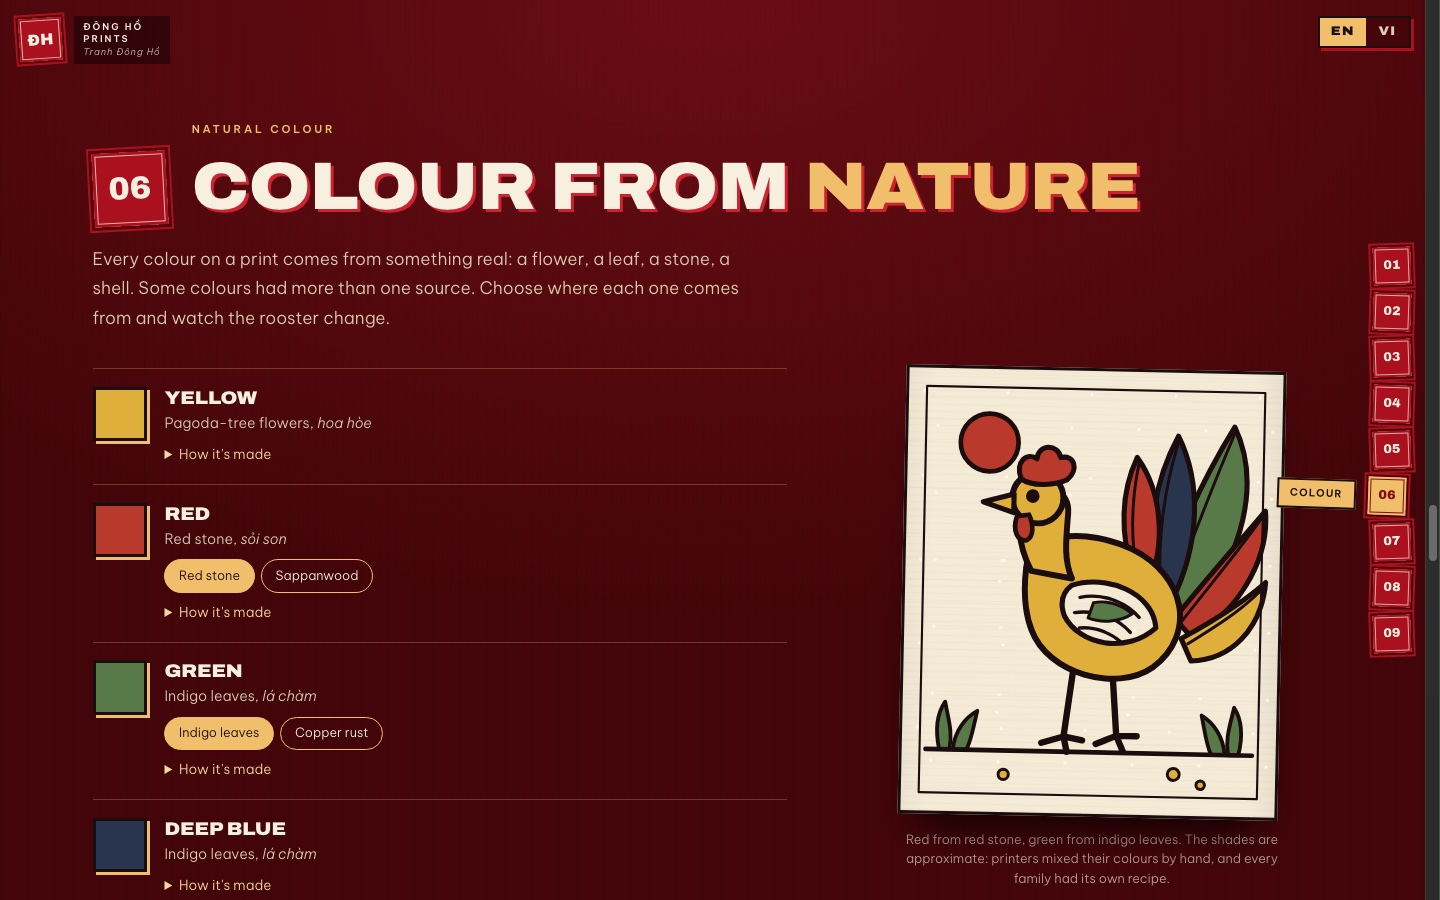
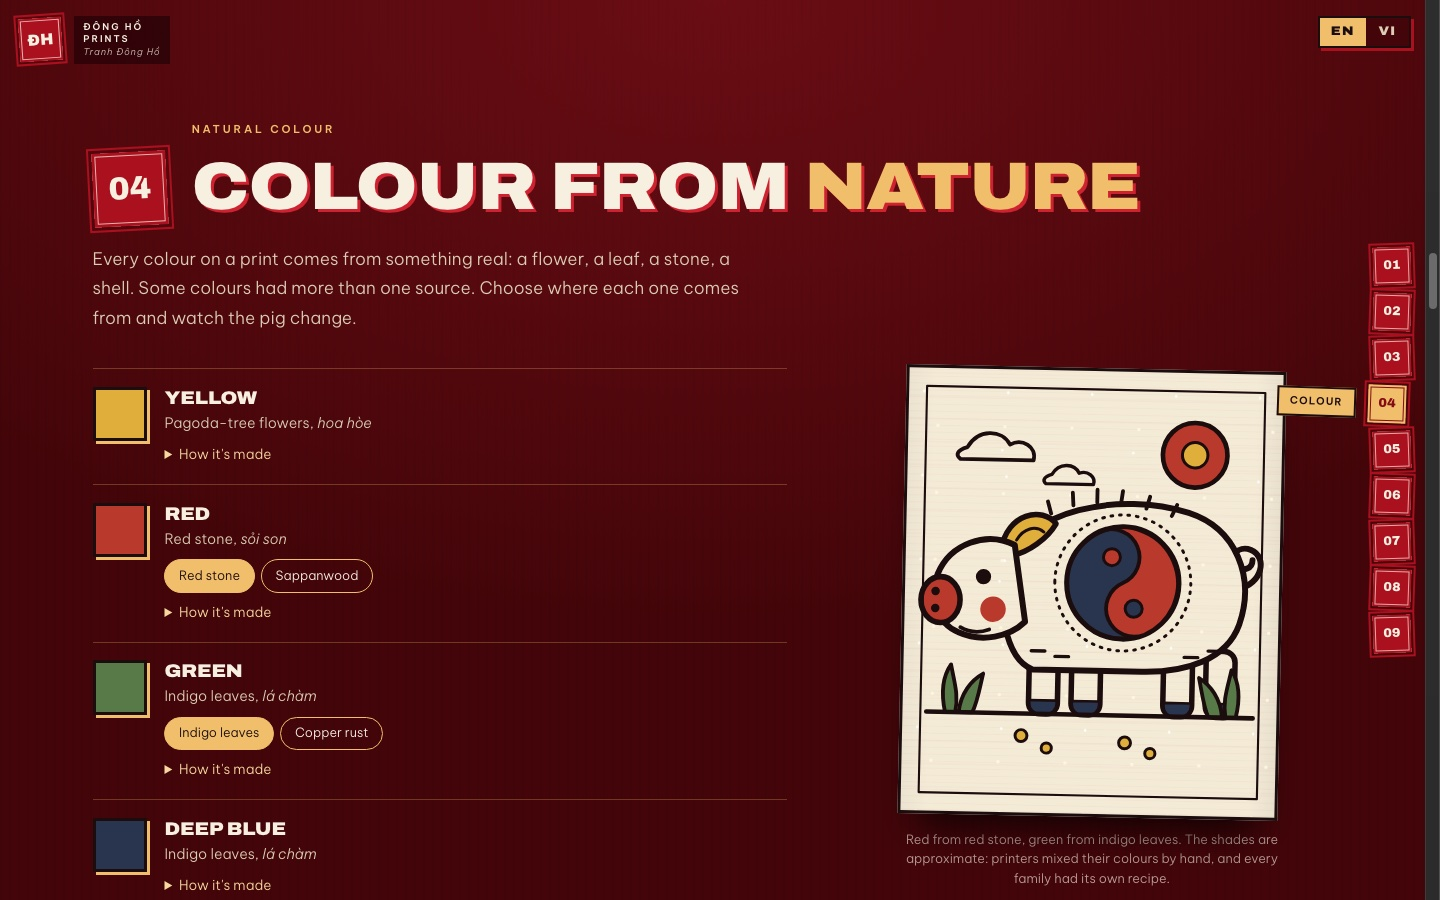
feat: change content section

diff --git a/components/press/pigScene.ts b/components/press/pigScene.ts
@@ -1,0 +1,83 @@
+// The yin-yang pig (Lợn âm dương) taken apart into blocks the same way as roosterScene.ts, so the colour
+// mixer can show it with any pigments. Drawn after the animated PigPrint in components/art, with two changes
+// that keep it to the four colour blocks: the snout is red (not pink), and the yin half of the swirl and the
+// hooves are indigo.
+
+import type { Ink, Line, Scene, Shape } from "./roosterScene";
+
+const shapes: Shape[] = [];
+const lines: Line[] = [];
+
+/** Adds a shape (back to front) and returns its index, for the lines that sit on top of it. */
+const add = (d: string, fill: Ink | "paper", sw: number) => shapes.push({ d, fill, sw }) - 1;
+const line = (d: string, w: number, after: number, dash?: string) => lines.push({ d, w, after, dash });
+
+const f = (n: number) => +n.toFixed(1);
+const circle = (cx: number, cy: number, r: number) => `M${f(cx - r)} ${f(cy)}a${r} ${r} 0 1 0 ${2 * r} 0a${r} ${r} 0 1 0 ${-2 * r} 0Z`;
+const ellipse = (cx: number, cy: number, rx: number, ry: number) =>
+  `M${cx - rx} ${cy}a${rx} ${ry} 0 1 0 ${2 * rx} 0a${rx} ${ry} 0 1 0 ${-2 * rx} 0Z`;
+const rrect = (x: number, y: number, w: number, h: number, r: number) =>
+  `M${x + r} ${y}H${x + w - r}a${r} ${r} 0 0 1 ${r} ${r}V${y + h - r}a${r} ${r} 0 0 1 ${-r} ${r}H${x + r}a${r} ${r} 0 0 1 ${-r} ${-r}V${y + r}a${r} ${r} 0 0 1 ${r} ${-r}Z`;
+
+// sun and clouds
+add(circle(338, 96, 38), "red", 5.5);
+add(circle(338, 96, 15), "yellow", 3.5);
+add("M70 92c12-22 40-22 50-4 14-8 32 2 28 18H62c-6-4-5-10 8-14z", "paper", 4.5);
+add("M170 122c8-14 26-14 32-2 10-4 20 4 17 13h-56c-4-3-3-8 7-11z", "paper", 4);
+
+// legs, behind the body, each with an indigo hoof
+let lastHoof = 0;
+for (const x of [148, 198, 306, 356]) {
+  add(rrect(x, 326, 34, 78, 13), "paper", 6.5);
+  lastHoof = add(`M${x + 1} 388h32v4a12 12 0 0 1-12 12h-8a12 12 0 0 1-12-12z`, "indigo", 3);
+}
+
+// the tail starts inside the body: the body hides that part
+line("M392 252c28-6 34-38 14-46-16-6-28 10-16 20 8 6 18 2 18-8", 7, lastHoof);
+
+const body = add("M118 232C140 164 250 140 332 164c56 17 80 74 62 130-14 42-62 58-114 58H152c-34-12-44-82-34-120z", "paper", 7);
+line("M170 168l-4-14M196 158l-1-15M224 154v-15M252 155l2-15M282 160l4-14M312 168l6-13", 4.5, body); // bristles
+line("M150 330h16M178 336h16M330 334h16M358 326h14", 4, body); // belly dashes
+
+// the yin-yang swirl, tilted 24° about the middle of the body
+const [cx, cy, tilt] = [256, 248, (-24 * Math.PI) / 180];
+const at = (x: number, y: number) => [f(cx + x * Math.cos(tilt) - y * Math.sin(tilt)), f(cy + x * Math.sin(tilt) + y * Math.cos(tilt))];
+const p = (x: number, y: number) => at(x, y).join(" ");
+add(circle(cx, cy, 66), "indigo", 6);
+add(`M${p(0, -66)}A66 66 0 0 1 ${p(0, 66)}A33 33 0 0 1 ${p(0, 0)}A33 33 0 0 0 ${p(0, -66)}Z`, "red", 4.5);
+add(circle(...(at(0, 33) as [number, number]), 10), "indigo", 3.5);
+const swirl = add(circle(...(at(0, -33) as [number, number]), 10), "red", 3.5);
+line(circle(cx, cy, 80), 3.5, swirl, "2 8");
+
+// ear, then the head over it
+const ear = add("M112 212C118 168 160 160 176 180C166 198 144 214 126 218Z", "yellow", 6.5);
+line("M130 200c8-14 22-18 32-10", 3.5, ear);
+add("M128 206C94 190 52 206 38 242C28 270 38 300 64 310C92 322 124 314 142 296Z", "paper", 7);
+add(ellipse(42, 272, 23, 27), "red", 6.5); // snout
+const cheek = add(circle(104, 282, 15), "red", 0);
+line("M66 304q16 9 34 2", 4.5, cheek); // mouth
+
+// grass and little flowers on the ground
+for (const d of [
+  "M50 404c-6-26-2-44 6-56 4 20 10 36 6 56z",
+  "M66 404c2-22 14-38 28-46-4 18-6 34-12 46z",
+  "M392 404c6-26 2-44-6-56-4 20-10 36-6 56z",
+  "M376 404c-2-22-14-38-28-46 4 18 6 34 12 46z",
+]) {
+  add(d, "green", 4.5);
+}
+for (const [x, y, r] of [[262, 436, 7], [292, 448, 6], [170, 444, 6], [140, 430, 7]]) {
+  add(circle(x, y, r), "yellow", 3.5);
+}
+
+line("M28 404H412", 5.5, shapes.length - 1); // the ground
+
+export const PIG: Scene = {
+  shapes,
+  lines,
+  dots: [
+    { cx: 92, cy: 244, r: 9 }, // eye
+    { cx: 36, cy: 262, r: 5 }, // nostrils
+    { cx: 36, cy: 282, r: 5 },
+  ],
+};

diff --git a/components/press/RoosterLayers.tsx b/components/press/RoosterLayers.tsx
@@ -2,10 +2,10 @@
 
 import { useId } from "react";
 import { INK } from "../art/woodcut";
-import { EYE, LINES, SHAPES, type Ink } from "./roosterScene";
+import { ROOSTER, type Ink, type Scene } from "./roosterScene";
 
-// The rooster as printed blocks: four colour layers and the black key layer, drawn inside an <svg>
-// with viewBox "0 0 440 520". Shared by the printing demo (03) and the colour mixer (05).
+// A print as printed blocks (the rooster unless a scene is given): four colour layers and the black key layer,
+// drawn inside an <svg> with viewBox "0 0 440 520". Shared by the printing demo and the colour mixer.
 
 export type Id = Ink | "key";
 
@@ -21,9 +21,12 @@ type Props = {
   slip?: boolean;
   /** show one block at full strength and the other colours faded; "key" fades every colour */
   spotlight?: Ink | "key" | null;
+  /** the print to draw; the rooster by default */
+  scene?: Scene;
 };
 
-export function RoosterLayers({ done, paint, slip = false, spotlight = null }: Props) {
+export function RoosterLayers({ done, paint, slip = false, spotlight = null, scene = ROOSTER }: Props) {
+  const { shapes, lines, dots } = scene;
   // each instance gets its own mask ids, so two on one page never clash
   const uid = useId().replace(/[^a-zA-Z0-9]/g, "");
   const mask = (i: number) => `url(#${uid}m${i})`;
@@ -32,10 +35,10 @@ export function RoosterLayers({ done, paint, slip = false, spotlight = null }: P
     <>
       <defs>
         {/* mask i hides everything that a later shape covers: no colour or line is printed under another */}
-        {SHAPES.map((_, i) => (
+        {shapes.map((_, i) => (
           <mask key={i} id={`${uid}m${i}`} maskUnits="userSpaceOnUse" x="0" y="0" width="440" height="520">
             <rect width="440" height="520" fill="#fff" />
-            {SHAPES.slice(i + 1).map((s, j) => (
+            {shapes.slice(i + 1).map((s, j) => (
               <path key={j} d={s.d} fill="#000" />
             ))}
           </mask>
@@ -48,7 +51,7 @@ export function RoosterLayers({ done, paint, slip = false, spotlight = null }: P
           className={`layer${done.includes(ink) ? " on" : ""}${spotlight && spotlight !== ink ? " dim" : ""}`}
           style={slip ? { transform: `translate(${SLIP[ink][0]}px, ${SLIP[ink][1]}px)` } : undefined}
         >
-          {SHAPES.map((s, i) => (s.fill === ink ? <path key={i} d={s.d} fill={paint[ink]} mask={mask(i)} /> : null))}
+          {shapes.map((s, i) => (s.fill === ink ? <path key={i} d={s.d} fill={paint[ink]} mask={mask(i)} /> : null))}
         </g>
       ))}
 
@@ -60,13 +63,15 @@ export function RoosterLayers({ done, paint, slip = false, spotlight = null }: P
         strokeLinecap="round"
       >
         <rect x="21" y="21" width="398" height="478" strokeWidth="2.5" />
-        {SHAPES.map((s, i) => (
+        {shapes.map((s, i) => (
           <path key={i} d={s.d} strokeWidth={s.sw} mask={mask(i)} />
         ))}
-        {LINES.map((l, i) => (
-          <path key={i} d={l.d} strokeWidth={l.w} mask={mask(l.after)} />
+        {lines.map((l, i) => (
+          <path key={i} d={l.d} strokeWidth={l.w} strokeDasharray={l.dash} mask={mask(l.after)} />
         ))}
-        <circle cx={EYE.cx} cy={EYE.cy} r={EYE.r} fill={INK} stroke="none" />
+        {dots.map((d, i) => (
+          <circle key={i} cx={d.cx} cy={d.cy} r={d.r} fill={INK} stroke="none" />
+        ))}
       </g>
     </>
   );

diff --git a/lib/i18n/dictionaries/vi.tsx b/lib/i18n/dictionaries/vi.tsx
@@ -37,13 +37,13 @@ export const vi: Dict = {
     aria: "Các phần",
     items: {
       top: "Mở đầu",
+      make: "Cách làm",
       paper: "Giấy điệp",
+      colour: "Màu",
       press: "In tranh",
       read: "Đọc tranh",
-      colour: "Màu",
       market: "Chợ tranh",
       remain: "Còn lại",
-      make: "Cách làm",
       end: "Lời kết",
     },
   },
@@ -132,7 +132,7 @@ export const vi: Dict = {
         In một <em>bức tranh</em>
       </>
     ),
-    lede: "Mỗi màu một ván gỗ. Ván màu in trước, ván nét đen luôn in sau cùng. Bấm lần lượt từng ván để xem con gà hiện ra, rồi thử bật chế độ lệch ván.",
+    lede: "Giờ giấy đã sẵn và màu đã chọn xong. Mỗi màu một ván gỗ. Ván màu in trước, ván nét đen luôn in sau cùng. Bấm lần lượt từng ván để xem con gà hiện ra, rồi thử bật chế độ lệch ván.",
     app: {
       trayAria: "Các ván khắc",
       trayLabel: "Các ván khắc",
@@ -316,11 +316,11 @@ export const vi: Dict = {
         Màu từ <em>thiên nhiên</em>
       </>
     ),
-    lede: "Mỗi màu trên tranh đến từ một thứ có thật: một bông hoa, một chiếc lá, một viên đá, một chiếc vỏ sò. Có màu có hơn một nguồn. Hãy chọn nguồn của từng màu và xem con gà đổi sắc.",
+    lede: "Mỗi màu trên tranh đến từ một thứ có thật: một bông hoa, một chiếc lá, một viên đá, một chiếc vỏ sò. Có màu có hơn một nguồn. Hãy chọn nguồn của từng màu và xem con lợn đổi sắc.",
     mixer: {
       groupAria: "Nguồn của màu {name}",
       howSummary: "Cách làm",
-      previewAria: "Bức Gà đại cát trong những màu bạn đã chọn",
+      previewAria: "Bức Lợn âm dương trong những màu bạn đã chọn",
       note: "Mọi màu đều được hoà với một ít bột nếp trước khi in. Bấm vào tên một màu để chỉ xem ván màu đó trên tranh.",
       caption:
         "Màu đỏ từ {red}, màu xanh từ {green}. Sắc màu chỉ là gần đúng: thợ in tự pha màu bằng tay, và mỗi nhà một công thức.",

diff --git a/lib/i18n/dictionaries/en.tsx b/lib/i18n/dictionaries/en.tsx
@@ -37,13 +37,13 @@ export const en = {
     aria: "Sections",
     items: {
       top: "Intro",
+      make: "The making",
       paper: "The paper",
+      colour: "Colour",
       press: "Printing",
       read: "Reading",
-      colour: "Colour",
       market: "The market",
       remain: "What remains",
-      make: "The making",
       end: "Closing",
     },
   },
@@ -179,7 +179,7 @@ export const en = {
         Printing a <em>picture</em>
       </>
     ),
-    lede: "Each colour has its own woodblock. The colour blocks go first and the black outline block always goes last. Press the blocks one by one to watch the rooster appear, then try slipping the blocks.",
+    lede: "Now the paper is ready and the colours are chosen. Each colour has its own woodblock. The colour blocks go first and the black outline block always goes last. Press the blocks one by one to watch the rooster appear, then try slipping the blocks.",
     app: {
       trayAria: "Woodblocks",
       trayLabel: "The woodblocks",
@@ -432,11 +432,11 @@ export const en = {
         Colour from <em>nature</em>
       </>
     ),
-    lede: "Every colour on a print comes from something real: a flower, a leaf, a stone, a shell. Some colours had more than one source. Choose where each one comes from and watch the rooster change.",
+    lede: "Every colour on a print comes from something real: a flower, a leaf, a stone, a shell. Some colours had more than one source. Choose where each one comes from and watch the pig change.",
     mixer: {
       groupAria: "Source of the {name}",
       howSummary: "How it's made",
-      previewAria: "The Rooster of Great Fortune print in the colours you chose",
+      previewAria: "The yin-yang pig print in the colours you chose",
       note: "Every pigment is blended with a little sticky-rice flour before it is printed. Click a colour's name to see only that block on the print.",
       caption:
         "Red from {red}, green from {green}. The shades are approximate: printers mixed their colours by hand, and every family had its own recipe.",

diff --git a/components/colour/ColourMixer.tsx b/components/colour/ColourMixer.tsx
@@ -3,11 +3,12 @@
 import { useState } from "react";
 import { C, INK } from "../art/woodcut";
 import { RoosterLayers, type Id } from "../press/RoosterLayers";
+import { PIG } from "../press/pigScene";
 import type { Ink } from "../press/roosterScene";
 import { fmt } from "@/lib/i18n/fmt";
 import type { Dict } from "@/lib/i18n";
 
-// 05 · Colour from nature. Pick where a colour comes from and the rooster changes.
+// 04 · Colour from nature. Pick where a colour comes from and the yin-yang pig changes (the rooster is printed in 05).
 //
 // Sources: "đen (than xoan hay than lá tre), xanh (gỉ đồng, lá chàm), vàng (hoa hòe), đỏ (sỏi son,
 // gỗ vang)" (Doanh nghiệp & Hội nhập); black from the ash of burnt bamboo leaves, and the yellow and
@@ -157,7 +158,7 @@ export function ColourMixer({ t }: { t: Dict["colour"]["mixer"] }) {
             role="img"
             aria-label={t.previewAria}
           >
-            <RoosterLayers done={ALL} paint={paint} spotlight={spot} />
+            <RoosterLayers scene={PIG} done={ALL} paint={paint} spotlight={spot} />
           </svg>
         </div>
         <p className="pcap" aria-live="polite">

diff --git a/components/MarketSection.tsx b/components/MarketSection.tsx
@@ -2,7 +2,7 @@ import Image from "next/image";
 import { Compare } from "./market/Compare";
 import type { Dict } from "@/lib/i18n";
 
-// 05 · The print market: six more Đông Hồ prints, then how to tell them from Hàng Trống prints.
+// 07 · The print market: six more Đông Hồ prints, then how to tell them from Hàng Trống prints.
 // The pictures are real prints in the public domain (Wikimedia Commons), so they are shown as they are;
 // each one links back to its Commons page. Descriptions and wishes follow the sources in the footer:
 //   Hứng dừa, Vinh hoa – Phú quý, Nhân nghĩa (Toplist); Đánh ghen (VinWonders: a lesson about parents' behaviour);
@@ -69,7 +69,7 @@ export function MarketSection({ t }: { t: Dict }) {
       <div className="wrap">
         <header className="dh">
           <span className="seal" aria-hidden="true">
-            05
+            07
           </span>
           <div>
             <p className="eyebrow">{m.eyebrow}</p>

diff --git a/components/RemainSection.tsx b/components/RemainSection.tsx
@@ -2,7 +2,7 @@ import { BlockArt } from "./remain/BlockArt";
 import { ThenNow } from "./remain/ThenNow";
 import type { Dict } from "@/lib/i18n";
 
-// 06 · What remains. Text from the dictionary. Every figure and date comes from a named report (see Footer):
+// 08 · What remains. Text from the dictionary. Every figure and date comes from a named report (see Footer):
 //   - about 17 family lines and some 180 households once made prints; today 3 families, about 30
 //     people in 4 generations, after many turned to paper votive objects (Báo Văn hóa)
 //   - only two households in the village still keep the centuries-old carved blocks (Mekong ASEAN, 16 Feb 2026)
@@ -20,7 +20,7 @@ export function RemainSection({ t }: { t: Dict }) {
       <div className="wrap">
         <header className="dh">
           <span className="seal" aria-hidden="true">
-            07
+            08
           </span>
           <div>
             <p className="eyebrow">{r.eyebrow}</p>

diff --git a/components/press/roosterScene.ts b/components/press/roosterScene.ts
@@ -16,7 +16,10 @@ export type Shape = {
 };
 
 /** A line that only exists on the black block. `after` is the index of the shape it was drawn on top of. */
-export type Line = { d: string; w: number; after: number };
+export type Line = { d: string; w: number; after: number; dash?: string };
+
+/** A print taken apart into blocks: shapes back to front, lines on the black block, and round dots of black ink. */
+export type Scene = { shapes: Shape[]; lines: Line[]; dots: { cx: number; cy: number; r: number }[] };
 
 const circle = (cx: number, cy: number, r: number) => `M${cx - r} ${cy}a${r} ${r} 0 1 0 ${2 * r} 0a${r} ${r} 0 1 0 ${-2 * r} 0Z`;
 
@@ -68,3 +71,5 @@ export const LINES: Line[] = [
 ];
 
 export const EYE = { cx: 148, cy: 148, r: 8 };
+
+export const ROOSTER: Scene = { shapes: SHAPES, lines: LINES, dots: [EYE] };

diff --git a/components/PaperSection.tsx b/components/PaperSection.tsx
@@ -2,7 +2,7 @@ import { C, INK } from "./art/woodcut";
 import { Shimmer } from "./Shimmer";
 import type { Dict } from "@/lib/i18n";
 
-// 02 · Why giấy điệp. Text from the dictionary.
+// 03 · Why giấy điệp. Text from the dictionary.
 //
 // Facts: dó paper is made from dó bark; the coat is powdered seashell (điệp) mixed with a
 // sticky-rice paste; the shells are sea shells brought to the village; each colour has its own
@@ -25,7 +25,7 @@ export function PaperSection({ t }: { t: Dict }) {
         <div className="why-body">
           <header className="dh">
             <span className="seal" aria-hidden="true">
-              02
+              03
             </span>
             <div>
               <p className="eyebrow">{p.eyebrow}</p>

diff --git a/components/press/PrintPress.tsx b/components/press/PrintPress.tsx
@@ -6,7 +6,7 @@ import { COLOURS, RoosterLayers, type Id } from "./RoosterLayers";
 import { fmt } from "@/lib/i18n/fmt";
 import type { Dict } from "@/lib/i18n";
 
-// 03 · Printing a Gà đại cát. Text from the dictionary. Four colour blocks (any order) and the black outline block (always last).
+// 05 · Printing a Gà đại cát. Text from the dictionary. Four colour blocks (any order) and the black outline block (always last).
 // Facts used: each colour has its own woodblock; the black outline block is printed last; yellow is from
 // pagoda-tree flowers (hoa hòe), red from the soft red stone sỏi son, blue from indigo leaves (lá chàm),
 // black from the ash of burnt bamboo leaves.

diff --git a/components/Seals.tsx b/components/Seals.tsx
@@ -6,13 +6,13 @@ import { useEffect, useState } from "react";
 // Labels come from the dictionary (dict.nav), so the column follows the page language.
 export const CHAPTERS = [
   { id: "top", no: "01" },
-  { id: "paper", no: "02" },
-  { id: "press", no: "03" },
-  { id: "read", no: "04" },
-  { id: "market", no: "05" },
-  { id: "colour", no: "06" },
-  { id: "remain", no: "07" },
-  { id: "make", no: "08" },
+  { id: "make", no: "02" },
+  { id: "paper", no: "03" },
+  { id: "colour", no: "04" },
+  { id: "press", no: "05" },
+  { id: "read", no: "06" },
+  { id: "market", no: "07" },
+  { id: "remain", no: "08" },
   { id: "end", no: "09" },
 ] as const;
 

diff --git a/components/ReadSection.tsx b/components/ReadSection.tsx
@@ -2,7 +2,7 @@ import { MiceWeddingArt } from "./read/MiceWeddingArt";
 import { MiceReader } from "./read/MiceReader";
 import type { Dict } from "@/lib/i18n";
 
-// 04 · Reading a print. Text from the dictionary.
+// 06 · Reading a print. Text from the dictionary.
 
 export function ReadSection({ t }: { t: Dict }) {
   return (
@@ -10,7 +10,7 @@ export function ReadSection({ t }: { t: Dict }) {
       <div className="wrap">
         <header className="dh">
           <span className="seal" aria-hidden="true">
-            04
+            06
           </span>
           <div>
             <p className="eyebrow">{t.read.eyebrow}</p>
